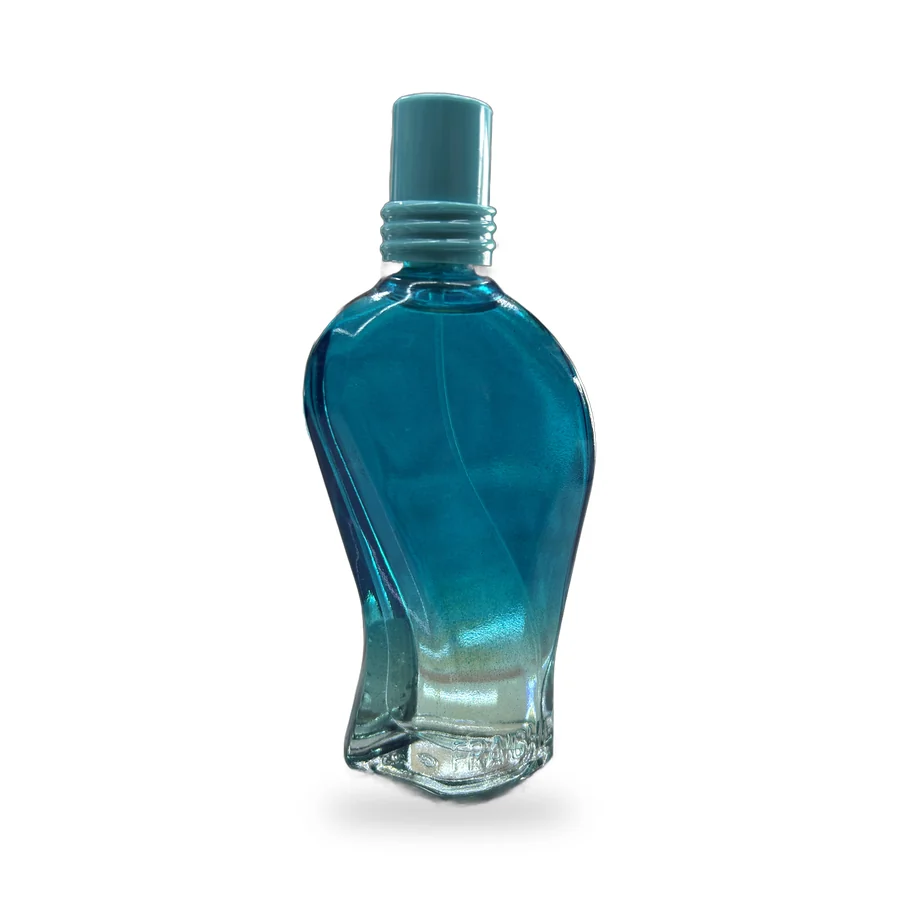
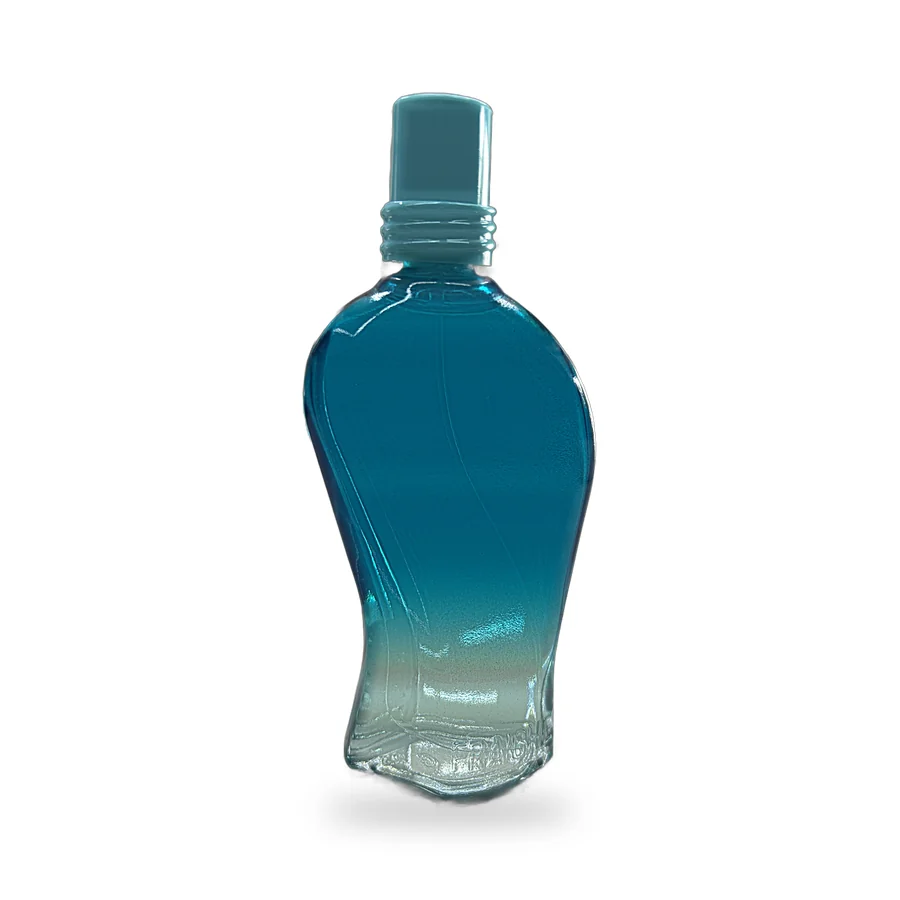
Botellas con interior limpio: sin el fondo de la tienda a través del vidrio
Claude-Session: https://claude.ai/code/session_012qYuFbJU3Mvk7NheT4Znu1

diff --git a/herramientas/botellas/comp.py b/herramientas/botellas/comp.py
@@ -1,0 +1,38 @@
+import os, numpy as np
+from PIL import Image, ImageDraw, ImageFilter
+O = 'out2/'; R = '/home/user/p-gina-web-fraiche-/img/botellas/'; os.makedirs(R, exist_ok=True)
+def L(n): return Image.open(O + [f for f in os.listdir(O) if f.startswith(n + '-')][0]).convert('RGBA')
+def split(im):  # separa dos botellas por la columna vacía central
+    a = np.array(im.split()[3]) > 30; col = a.sum(0); w = len(col)
+    mid = range(int(w * .3), int(w * .7)); x = min(mid, key=lambda i: col[i])
+    l, r = im.crop((0, 0, x, im.height)), im.crop((x, 0, w, im.height))
+    return l.crop(l.getbbox()), r.crop(r.getbbox())
+def lienzo(bots, alturas=None, S=900):
+    c = Image.new('RGBA', (S, S), (255, 255, 255, 255))
+    alturas = alturas or [1] * len(bots)
+    H = int(S * .8); base = int(S * .9)
+    escal = [b.resize((max(1, int(b.width * H * h / b.height)), int(H * h)), Image.LANCZOS) for b, h in zip(bots, alturas)]
+    gap = int(S * .05); tot = sum(e.width for e in escal) + gap * (len(escal) - 1)
+    if tot > S * .9:  # que quepan
+        k = S * .9 / tot; escal = [e.resize((int(e.width * k), int(e.height * k)), Image.LANCZOS) for e in escal]; gap = int(gap * k); tot = int(S * .9)
+    x = (S - tot) // 2
+    sh = Image.new('L', (S, S), 0); d = ImageDraw.Draw(sh)
+    for e in escal:
+        d.ellipse((x + e.width * .08, base - 14, x + e.width * .92, base + 14), fill=70); x += e.width + gap
+    c.alpha_composite(Image.merge('RGBA', [Image.new('L', (S, S), 40)] * 3 + [sh.filter(ImageFilter.GaussianBlur(14))]))
+    x = (S - tot) // 2
+    for e in escal:
+        c.alpha_composite(e, (x, base - e.height)); x += e.width + gap
+    return c.convert('RGB')
+def guarda(im, n): im.save(R + n + '.webp', 'WEBP', quality=86, method=6); print(n)
+b = {k: L(k) for k in ['01','02','03','04','06','07','08','09','11','12','13']}
+nude30, _ = split(L('10'))
+for n, k in [('60-caballero-negra','01'),('60-caballero-turquesa','02'),('60-dama-nude','06'),('60-dama-rosa','07'),('60-dama-morada','08'),
+             ('30-caballero-turquesa','03'),('30-caballero-verde','04'),('30-dama-naranja','09'),('120-caballero-negro','11'),('120-dama-rojo','12'),('16-unisex','13')]:
+    guarda(lienzo([b[k]]), n)
+guarda(lienzo([nude30]), '30-dama-nude')
+guarda(lienzo([b['01'], b['07']]), '60')
+guarda(lienzo([b['03'], b['09']]), '30')
+guarda(lienzo([b['11'], b['12']]), '120')
+c30, c60 = split(L('05')); guarda(lienzo([c30, c60], [.62, 1]), 'comparar-caballero')
+d30, d60 = split(L('10')); guarda(lienzo([d30, d60], [.78, 1]), 'comparar-dama')

diff --git a/herramientas/botellas/proc.py b/herramientas/botellas/proc.py
@@ -1,0 +1,36 @@
+import sys, os, numpy as np
+from rembg import new_session, remove
+from PIL import Image, ImageFilter, ImageEnhance
+s = new_session('isnet-general-use')
+def comps(mask):
+    # componentes conectados (4-vecinos) de una máscara booleana pequeña
+    h, w = mask.shape; lab = np.zeros((h, w), int); n = 0; sizes = {}
+    for y in range(h):
+        for x in range(w):
+            if mask[y, x] and not lab[y, x]:
+                n += 1; st = [(y, x)]; lab[y, x] = n; c = 0
+                while st:
+                    a, b = st.pop(); c += 1
+                    for da, db in ((1,0),(-1,0),(0,1),(0,-1)):
+                        p, q = a+da, b+db
+                        if 0 <= p < h and 0 <= q < w and mask[p, q] and not lab[p, q]: lab[p, q] = n; st.append((p, q))
+                sizes[n] = c
+    return lab, sizes
+for f in sorted(os.listdir('in')):
+    im = Image.open('in/' + f).convert('RGB'); im.thumbnail((1400, 1400))
+    cut = remove(im, session=s)
+    a = np.array(cut.split()[3])
+    # quitar el texto ("60ML") y manchas: se queda con los componentes grandes
+    small = Image.fromarray(a).resize((a.shape[1] // 8, a.shape[0] // 8))
+    m = np.array(small) > 40
+    lab, sizes = comps(m)
+    big = max(sizes.values()) if sizes else 0
+    keep = np.isin(lab, [k for k, v in sizes.items() if v > big * .25])
+    keep = Image.fromarray((keep * 255).astype('uint8')).resize(cut.size).filter(ImageFilter.MaxFilter(9))
+    a2 = np.minimum(a, np.array(keep))
+    cut.putalpha(Image.fromarray(a2))
+    cut = cut.crop(cut.getbbox())
+    # que reluzca: un poco más de contraste y brillo
+    rgb = ImageEnhance.Contrast(cut.convert('RGB')).enhance(1.08); rgb = ImageEnhance.Brightness(rgb).enhance(1.04)
+    rgb = ImageEnhance.Sharpness(rgb).enhance(1.3); rgb.putalpha(cut.split()[3]); cut = rgb
+    cut.save('out/' + f.rsplit('.', 1)[0] + '.png'); print(f, cut.size)

diff --git a/herramientas/botellas/limpia.py b/herramientas/botellas/limpia.py
@@ -1,0 +1,33 @@
+# Quita lo que se ve a través del vidrio: el interior toma el color propio de la botella
+# (mediana por renglón, que respeta degradados), y se conservan bordes, brillos y relieves.
+import os, numpy as np
+from PIL import Image
+from scipy import ndimage as nd
+for f in sorted(os.listdir('out')):
+    if not f[:2].isdigit(): continue
+    im = Image.open('out/' + f).convert('RGBA'); a = np.asarray(im).astype(float)
+    rgb, al = a[..., :3], a[..., 3]
+    if int(f[:2]) >= 11:            # 120 ml y 16 ml ya son fotos de estudio
+        Image.fromarray(a.astype('uint8')).save('out2/' + f); continue
+    m = al > 128
+    dist = nd.distance_transform_edt(m)
+    w = m.shape[1]
+    # color propio por renglón: mediana de los píxeles interiores
+    clean = np.zeros_like(rgb)
+    inner = dist > w * .04
+    for y in range(m.shape[0]):
+        row = inner[y]
+        src = row if row.sum() > 8 else m[y]
+        if src.sum(): clean[y] = np.median(rgb[y][src], axis=0)
+    clean = nd.uniform_filter1d(clean, size=41, axis=0)          # degradado suave de arriba a abajo
+    # detalle fino (relieve, letras, filo del vidrio): diferencia con un desenfoque pequeño
+    fino = rgb - nd.gaussian_filter(rgb, sigma=(2.5, 2.5, 0))
+    lum = rgb.mean(2); clum = clean.mean(2)
+    brillo = np.clip((lum - clum - 25) / 60, 0, 1)                # reflejos blancos se quedan
+    borde = np.clip(1 - (dist - w * .015) / (w * .05), 0, 1)       # orillas se quedan como en la foto
+    k = np.maximum(brillo, borde)[..., None]
+    out = clean + fino * .9
+    out = out * (1 - k) + rgb * k
+    out = np.clip(out, 0, 255)
+    res = np.dstack([out, al]).astype('uint8')
+    Image.fromarray(res).save('out2/' + f); print(f)
